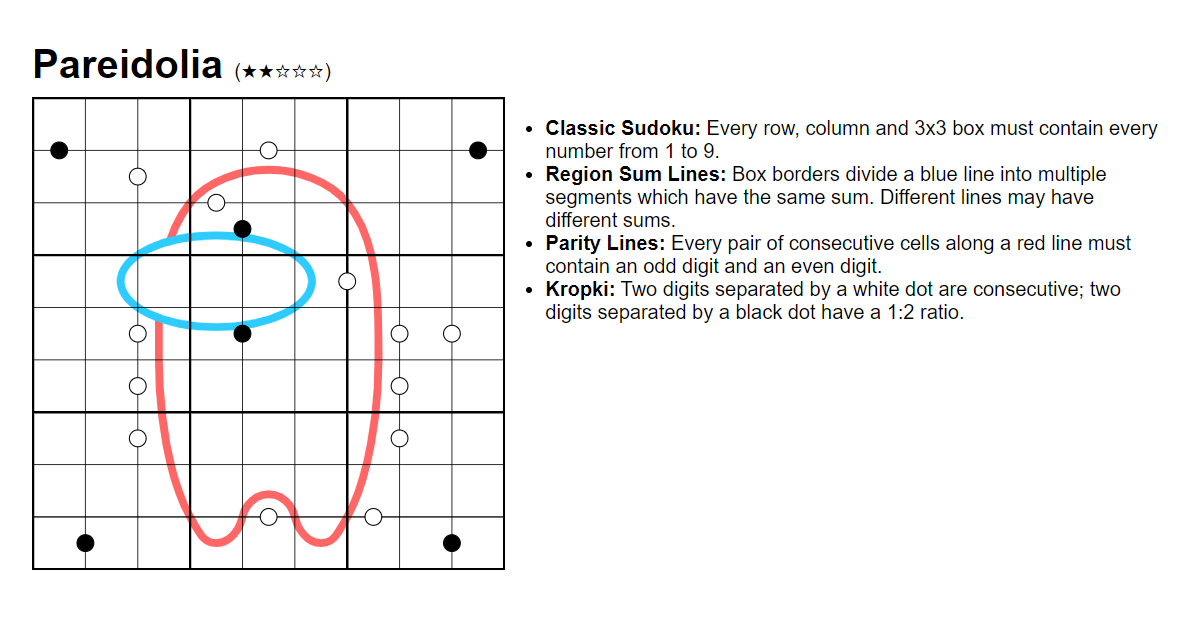
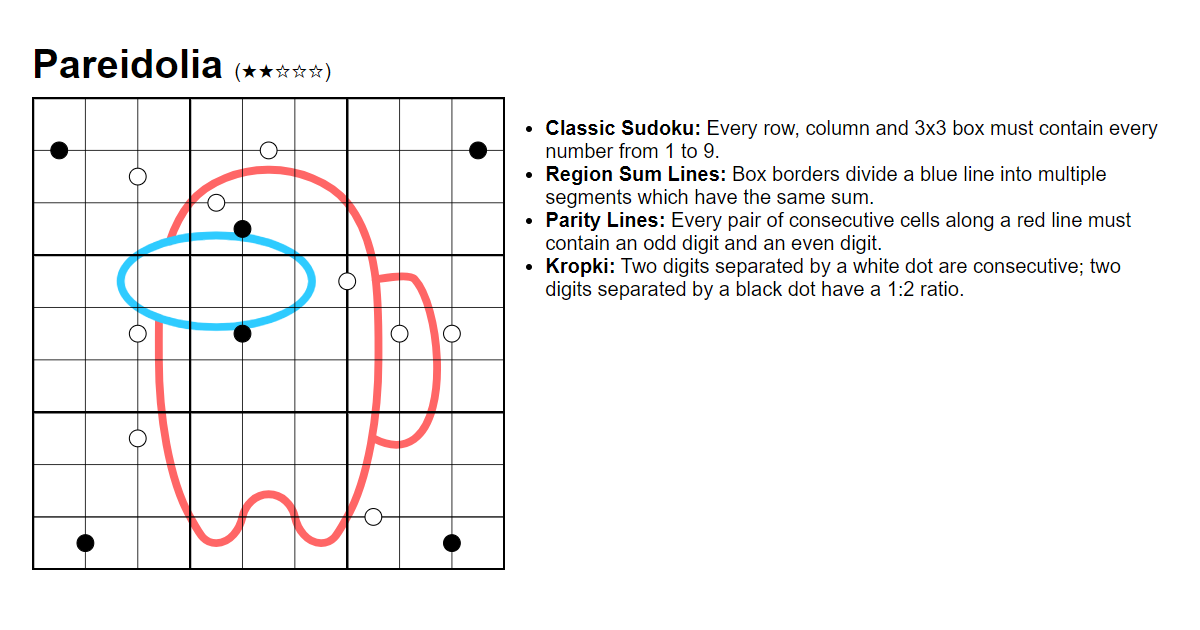
Corrected some rules.

diff --git a/_tools/lmd-manager.js b/_tools/lmd-manager.js
@@ -216,7 +216,7 @@ async function uploadPuzzle(slug, params = {}, yml = ymlFromSlug(slug)) {
   payload.code = params.code;
   payload.dif = (yml.difficulty ?? 3).toString();
   ((d) => {
-    if (d === '')
+    if (isNaN(d))
       payload.frei = 'nein';
     else {
       payload.frei = 'ja';

diff --git a/_puzzles/pareidolia.md b/_puzzles/pareidolia.md
@@ -3,13 +3,13 @@ title: Pareidolia
 creation_date: "2026-11-27"
 difficulty: 2
 order: 61
-sudokupad_url: https://sudokupad.app/qmkcjz5we2
+sudokupad_url: https://sudokupad.app/kku2ex9a18
 lmd_id: 000W98
 rules:
   - name: Classic Sudoku
     desc: Every row, column and 3x3 box must contain every number from 1 to 9.
   - name: Region Sum Lines
-    desc: Box borders divide a blue line into multiple segments which have the same sum. Different lines may have different sums.
+    desc: Box borders divide a blue line into multiple segments which have the same sum.
   - name: Parity Lines
     desc: Every pair of consecutive cells along a red line must contain an odd digit and an even digit.
   - name: Kropki
@@ -18,7 +18,7 @@ rules_de:
   - name: Klassisches Sudoku
     desc: Jede Zeile, jede Spalte und jedes 3x3-Block muss alle Zahlen von 1 bis 9 enthalten.
   - name: Region Sum Lines
-    desc: Die Grenzen der 3x3-Blöcke unterteilen eine blaue Linie in mehrere Abschnitte, die dieselbe Summe aufweisen. Alle derartigen Linien müssen dieselbe Summe haben.
+    desc: Die Grenzen der 3x3-Blöcke unterteilen eine blaue Linie in mehrere Abschnitte, die dieselbe Summe aufweisen.
   - name: Paritätslinien
     desc: Jedes Paar aufeinanderfolgender Zellen entlang einer roten Linie muss eine ungerade und eine gerade Ziffer enthalten.
   - name: Kropki

diff --git a/_puzzles/big-bang.md b/_puzzles/big-bang.md
@@ -3,7 +3,7 @@ title: Big Bang
 creation_date: "2026-09-20"
 difficulty: 2
 order: 12
-sudokupad_url: https://sudokupad.app/vl9j17qd0e
+sudokupad_url: https://sudokupad.app/0209arzuxj
 lmd_id: 000V1A
 rules:
   - name: Classic Sudoku
@@ -20,7 +20,7 @@ rules_de:
   - name: Klassisches Sudoku
     desc: Jede Zeile, jede Spalte und jedes 3x3-Block muss alle Zahlen von 1 bis 9 enthalten.
   - name: Region Sum Lines
-    desc: Die Grenzen der 3x3-Blöcke unterteilen eine blaue Linie in mehrere Abschnitte, die dieselbe Summe aufweisen. Alle derartigen Linien müssen dieselbe Summe haben.
+    desc: Die Grenzen der 3x3-Blöcke unterteilen eine blaue Linie in mehrere Abschnitte, die dieselbe Summe aufweisen. Verschiedene Linien können unterschiedliche Summen haben.
   - name: Pfeile
     desc: Die Zahlen entlang eines Pfeils ergeben in der Summe den Wert in der eingekreisten Zelle.
   - name: Kropki

diff --git a/_puzzles/union-jack.md b/_puzzles/union-jack.md
@@ -20,7 +20,7 @@ rules_de:
   - name: Klassisches Sudoku
     desc: Jede Zeile, jede Spalte und jedes 3x3-Block muss alle Zahlen von 1 bis 9 enthalten.
   - name: Region Sum Lines
-    desc: Die Grenzen der 3x3-Blöcke unterteilen eine blaue Linie in mehrere Abschnitte, die dieselbe Summe aufweisen. Alle derartigen Linien müssen dieselbe Summe haben.
+    desc: Die Grenzen der 3x3-Blöcke unterteilen eine blaue Linie in mehrere Abschnitte, die dieselbe Summe aufweisen. Verschiedene Linien können unterschiedliche Summen haben.
   - name: Paritätslinien
     desc: Jedes Paar aufeinanderfolgender Zellen entlang einer roten Linie muss eine ungerade und eine gerade Ziffer enthalten.
   - name: Kropki
